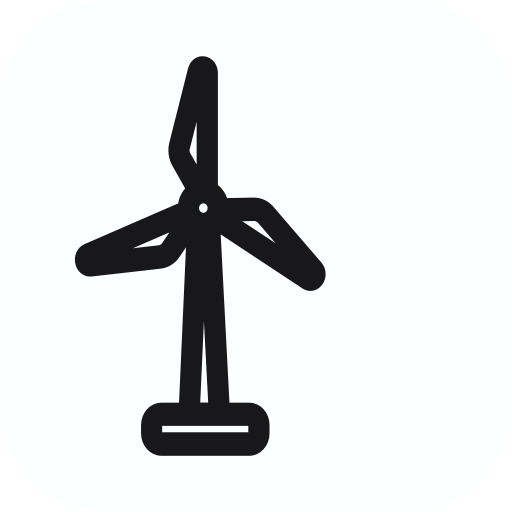
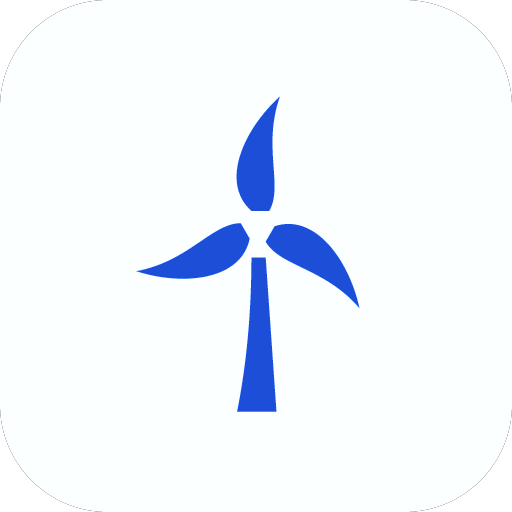
feat(marca): atualizar ícone para turbina Brisa

Changed region(s): [[0.125, 0.0938, 0.7188, 0.9062]]

diff --git a/apps/web/src/components/brand/tower-mark.tsx b/apps/web/src/components/brand/tower-mark.tsx
@@ -1,28 +1,18 @@
 import type { SVGProps } from 'react';
 
-const towerPath =
-  'M7255.1577 5227.8145c-147.9101-155.2002-350.7109-241.17-570.2109-238.7901l-1250.1494 21.4902c-26.2203-260.27-188.4707-477.56-417.5205-580.25l0-4111.99016c0-162.38-112.1299-291.32995-274.3399-315.20995-162.23-21.49-305.3691 71.64022-348.3193 229.24023l-725.2705 2607.59958c-57.26 207.75-26.2503 429.8403 88.2597 611.3203l625.0801 1005.3096c-221.8799 121.79-374.5693 355.8008-374.5693 625.6308 0 9.5498 2.3799 19.0996 2.3799 28.6495l-3807.71038 1502.0097c-152.69001 59.69-231.41975 212.521-193.23975 370.1309 35.78 148.0298 157.4599 243.5498 305.3799 243.5498 11.92001 0 23.84979 0 35.77978 0l2691.18005-276.9903c214.71-21.4902 410.3401-133.7202 536.79-305.6503l727.6504-979.0401c19.1099 14.3198 38.1792 26.25 57.2793 38.21-107.3901 2174.5898-215.1396 4349.1608-322.0996 6523.7808l-949.54 0c-283.8902 0-515.3203 231.639-515.3203 515.799l0 293.721c0 284.16 231.4301 515.769 515.3203 515.769l3421.2197 0c283.8901 0 515.3203-231.609 515.3203-515.769l0-293.721c0-284.16-231.4302-515.799-515.3203-515.799l-1030.6601 0c-124.6001-2177.03-248.4595-4354.0108-374.5694-6530.9507 45.3198-28.6602 90.6392-62.0997 128.8194-100.3096l3492.7905 2091.8301c52.5 31.0298 109.75 47.75 164.6299 47.75 93.0498 0 181.3203-40.5801 245.7402-121.7803 102.5801-126.5498 95.4102-298.4795-19.0996-417.8897l-1863.3003-1962.8603-2.3799-4.79z m-3318.6103-2313.8799l725.2695-2607.59961c0 0 9.5503-31.04004 35.7705-31.04004 2.4102 0 4.79 0 7.1699 0 35.7998 4.76999 35.7998 31.03986 35.7998 40.58985l0 4033.2099-95.4297 7.1397-656.0898-1055.4502c-73.97-117-93.0503-257.8894-57.2803-391.6094l4.7901 4.7598z m789.6894 1728.8701c243.3399 0 441.3506 198.1904 441.3506 441.7402 0 243.5698-198.0107 441.7696-441.3506 441.7696-243.3501 0-441.3691-198.1998-441.3691-441.7696 0-243.5498 198.019-441.7402 441.3691-441.7402z m-1371.8291 1833.9004c-81.1201 109.8501-207.5605 181.4697-343.5605 195.8095l-2691.14981 277c0 0-35.79007 2.3799-45.33008-31.04-9.54999-35.8198 16.69986-45.3696 23.85986-47.7598l3762.37973-1480.5 45.3301 71.6202-756.29 1014.8701 4.7607 0z m3397.3496 6261.1199l0 293.719c0 131.34-107.3701 241.191-240.9599 241.191l-3421.21 0c-131.1999 0-240.9502-107.471-240.9502-241.191l0-293.719c0-131.34 107.3401-241.16 240.9502-241.16l3421.21 0c131.2099 0 240.9599 107.44 240.9599 241.16z m-2113.7998-6936.9002l202.7901 0-4.7803 0c123.9502 2140.3398 246.0898 4280.7592 369.7998 6421.1192l-889.8897 0c106.1299-2140.46 215.48-4280.6793 322.0801-6421.1192z m4284.8706 1633.3301c-21.4902 28.6499-45.3301 14.3398-52.5 9.5498l-3471.3012-2077.4805 28.6201-78.79 1264.4707-21.5098c136-4.77 269.5893 52.5405 365.0195 152.8506l1863.3003 1962.8594c0 0 23.8711 26.2705 2.3906 54.9306l0-2.4101z';
+const brisaPath =
+  'M48 36 C39 28 46 13 56 4 C51 18 57 29 53 36 Z M54.464 40.268 C65.892 36.474 75.383 50.036 78.177 63.196 C68.553 51.866 56.026 51.562 51.964 44.598 Z M47.536 43.732 C45.108 55.526 28.617 56.964 15.823 52.804 C30.447 50.134 36.974 39.438 45.036 39.402 Z M48 49 L52 49 L55 92 L44 92 C47 77 48 62 48 49 Z';
 
 export function TowerMark({ className, ...props }: SVGProps<SVGSVGElement>) {
   return (
     <svg
       aria-hidden="true"
-      className={`text-foreground ${className ?? ''}`}
-      fill="none"
+      className={`text-brand ${className ?? ''}`}
       focusable="false"
-      viewBox="0 0 13552.104 13552.104"
+      viewBox="0 0 100 100"
       {...props}
     >
-      <g transform="translate(1016.3295 0) scale(0.85 1)">
-        <path
-          d={towerPath}
-          fill="currentColor"
-          stroke="currentColor"
-          strokeLinecap="round"
-          strokeLinejoin="round"
-          strokeWidth="550"
-        />
-      </g>
+      <path d={brisaPath} fill="currentColor" transform="translate(15.5 16) scale(0.7)" />
     </svg>
   );
 }

diff --git a/.agent/tasks/README.md b/.agent/tasks/README.md
@@ -8,7 +8,7 @@ Cada nova slice fica em uma pasta `NN-nome/`, com um `README.md` que define resu
 
 ## Próxima slice preparada
 
-Nenhuma slice nova foi detalhada.
+- [x] [15 — Identidade visual](15-identidade-visual/README.md): BR01 concluída em 08/11/2026; novo símbolo Brisa aplicado ao site, favicon e PWA.
 
 - [x] [14 — Domínio principal e redirecionamento](14-dominio-principal/README.md): DOM01–DOM05 concluídas em 08/11/2026. Deploy do SHA `94780287bde78c87bc83845a66feaf751e0df0a7` saudável; domínio canônico e redirects validados; proprietário confirmou os fluxos autenticados, OAuth/email, convites, sync e PWA nos dispositivos disponíveis. Email permanece inalterado.
 - [x] [11 — Preparação e entrada em produção](11-producao/README.md): D01–D10 concluídas. Piloto aberto em 04/11/2026; um cliente usa Android, sem incidentes reportados desde a abertura; suporte via WhatsApp com o proprietário. Quota/evicção e medição p95 <2s foram retiradas do escopo D09 por decisão do proprietário.
@@ -16,8 +16,11 @@ Nenhuma slice nova foi detalhada.
 ## Slice preparada
 
 - Slice 14 planejada em 05/11/2026: domínio principal e redirecionamento do domínio antigo, com DNS, TLS, Caddy, origem/auth/OAuth, deploy e validação ponta a ponta. Troca de remetente/provedor de email excluída e reservada para slice futura.
+- Slice 15 concluída em 08/11/2026: substituir a turbina outlined pela Brisa filled em todos os pontos da marca; ver [BR01](15-identidade-visual/01-icone-brisa.md).
 
 ## Slices concluídas mais recentes
+
+- [x] [15 — Identidade visual](15-identidade-visual/README.md): símbolo Brisa filled adaptado às cores do sistema e aplicado aos usos do site, favicon, PWA e Apple touch icon; `pnpm check` passou em 08/11/2026.
 
 - [x] [14 — Domínio principal e redirecionamento](14-dominio-principal/README.md): DOM01–DOM05 concluídas em 08/11/2026; domínio canônico, redirect legado e fluxos confirmados pelo proprietário. Email permaneceu inalterado.
 
@@ -31,7 +34,7 @@ Nenhuma slice nova foi detalhada.
 
 - [x] [08 — Filtros e histórico de consulta](08-consultas-historico/README.md): filtros P/T nas três listas, paginação por demanda, projeção e retenção segura de histórico.
 
-Última slice concluída: [10 — Cadastro e identidade](10-cadastro-identidade/README.md). A revisão técnica anterior entregou: R01A removeu query e fragmento dos logs automáticos; R02 atualizou documentação e tornou explícita a composição de auditoria/notificações; R03 centralizou transações em issues/parks e classificou erros por constraint; R04 segregou interfaces de workspaces e fortaleceu as fronteiras de módulos; R05 extraiu policies de Issues e preservou receipts; R06 separou módulos e rotas por feature com aceite manual confirmado; R07 separou a persistência, reconciliação e fila offline mantendo a transação; R08 revalidou os fluxos e fechou a matriz A01–A13. Limites de produção continuam explícitos.
+Última slice concluída: [15 — Identidade visual](15-identidade-visual/README.md). A revisão técnica anterior entregou: R01A removeu query e fragmento dos logs automáticos; R02 atualizou documentação e tornou explícita a composição de auditoria/notificações; R03 centralizou transações em issues/parks e classificou erros por constraint; R04 segregou interfaces de workspaces e fortaleceu as fronteiras de módulos; R05 extraiu policies de Issues e preservou receipts; R06 separou módulos e rotas por feature com aceite manual confirmado; R07 separou a persistência, reconciliação e fila offline mantendo a transação; R08 revalidou os fluxos e fechou a matriz A01–A13. Limites de produção continuam explícitos.
 
 - [x] [07 — Campainha e Web Push](07-notificacoes/README.md): N01–N06 concluídas em 28/10/2026; outbox, campainha, worker, interface/PWA, push real confirmado pelo proprietário e validação integrada. Android/iPhone instalados e produção permanecem no roadmap 11.
 

diff --git a/.agent/tasks/15-identidade-visual/01-icone-brisa.md b/.agent/tasks/15-identidade-visual/01-icone-brisa.md
@@ -1,0 +1,35 @@
+# BR01 — Ícone Brisa
+
+**Status:** Concluída em 08/11/2026.  
+**Task concluída:** [x]
+
+## Objetivo
+
+Substituir a turbina outlined pelo ícone Brisa filled enviado em `/mnt/c/Users/leo-a/Downloads/brisa.svg`, adaptando cores e posicionamento para as superfícies do Wind Ops.
+
+## Escopo e exclusões
+
+- Atualizar o componente `TowerMark` usado na landing, acesso, home e navegação do workspace.
+- Atualizar favicons claro/escuro, SVG PWA, PNGs 192/512 e Apple touch icon.
+- Preservar o fundo claro/escuro do ícone instalável e usar azul primário no símbolo claro, com símbolo claro no tema escuro.
+- Não alterar o documento de design Pencil, o nome do produto, tipografia ou layouts.
+
+## Dependências
+
+- SVG Brisa fornecido pelo proprietário; nenhuma dependência de runtime adicionada.
+
+## Implementação
+
+- [x] Trocar o caminho da turbina no componente de marca e centralizar a forma no viewBox quadrado.
+- [x] Atualizar os SVGs de favicon e PWA para usar o símbolo filled e paleta do sistema.
+- [x] Regenerar os PNGs Apple/PWA em seus tamanhos existentes.
+- [x] Conferir visualmente o PNG PWA de 512 px e revisar todos os pontos de uso.
+- [x] Executar `pnpm check` e registrar evidências.
+
+## Contratos e dados
+
+Sem alteração de API, schema, dados ou contratos. Os nomes dos arquivos públicos referenciados pelo HTML e manifesto foram preservados.
+
+## Aceite e evidências
+
+Em 08/11/2026, o componente `TowerMark` e todos os assets públicos existentes passaram a exibir a turbina Brisa filled. O símbolo usa `text-brand` dentro do site; o favicon usa `#1d4ed8` no tema claro e `#93c5fd` no escuro; os SVGs/PNGs de PWA usam a mesma paleta nos respectivos temas. A composição fica centralizada com margem de segurança no quadrado instalável. `pnpm check` passou: lint e boundaries, typechecks, 86 testes em 17 arquivos e build de produção. O PNG de 512 px foi inspecionado visualmente. Sem validação manual em aparelho nesta task.

diff --git a/.agent/memory.md b/.agent/memory.md
@@ -576,3 +576,7 @@ Atualização D10 — 08/11/2026: proprietário especificou que um cliente usa A
 Conclusão D10/slice 11 — 08/11/2026: proprietário definiu suporte por WhatsApp diretamente com ele, como responsável pela continuidade. Com o piloto aberto em 04/11/2026, cliente em Android, nenhum incidente relatado e deploy condicionado a CI aprovado, D10 e a slice 11 foram concluídas. Nenhum nome/telefone do cliente foi registrado. Limitações retiradas do escopo (restore Hostinger/Neon, rollback compatível com schema, simulação de quota/evicção e p95 numérico) permanecem explicitadas e não foram tratadas como testes aprovados.
 
 DOM05 e slice 14 concluídas — 08/11/2026: proprietário confirmou “tudo validado” após o cutover de `windreport.com.br`: fluxos autenticados, email/OTP, Google OAuth/linking, convites, recuperação, sync, PWA e aparelhos disponíveis. Versões de SO/browser não fornecidas; nenhum detalhe sensível, payload ou dado local registrado. Smoke público documentado na task; legado continua redirecionando e email/remetente permanecem inalterados. Nenhuma mensagem externa foi enviada; orientação operacional foi preparada.
+
+## Identidade visual — 08/11/2026
+
+- BR01 concluída: proprietário forneceu `/mnt/c/Users/leo-a/Downloads/brisa.svg`, ícone Brisa filled. Aplicado ao `TowerMark` em landing/acesso/home/workspace; SVGs de favicon claro/escuro e PWA, PNGs 192/512 e Apple touch icon regenerados. O símbolo inline herda `text-brand`; favicon usa os tokens visuais `#1d4ed8` claro e `#93c5fd` escuro; PWA usa a mesma paleta nos respectivos temas. Composição quadrada centralizada com margem segura para máscara. `pnpm check` passou (86 testes, 17 arquivos, build); PNG de 512 px inspecionado. Sem ensaio manual em aparelho.

diff --git a/.agent/tasks/15-identidade-visual/README.md b/.agent/tasks/15-identidade-visual/README.md
@@ -1,0 +1,25 @@
+# Slice 15 — Identidade visual
+
+**Status:** Concluída em 08/11/2026.
+
+## Resultado
+
+Atualizar a marca Wind Ops para usar o ícone Brisa filled enviado pelo proprietário, mantendo alinhamento, escala e cores consistentes entre a interface e os ícones instaláveis.
+
+## Limites
+
+- Inclui símbolo inline do site, favicon claro/escuro, SVG de PWA, PNGs do manifesto e Apple touch icon.
+- Não altera nome, tipografia, telas ou regras do produto.
+- O SVG de origem permanece fora do repositório; os caminhos necessários foram incorporados aos assets versionados.
+
+## Dependências e ordem
+
+| Task                          | Entrega                                                                           | Dependências                    |
+| ----------------------------- | --------------------------------------------------------------------------------- | ------------------------------- |
+| [x] [BR01](01-icone-brisa.md) | Ícone Brisa centralizado e adaptado à paleta Wind Ops em todos os pontos da marca | SVG fornecido pelo proprietário |
+
+## Critério de encerramento
+
+- [x] Interface, favicon por tema, ícones PWA e Apple touch icon usam a nova marca.
+- [x] O ícone aparece centralizado com área segura para máscara do PWA.
+- [x] `pnpm check` passa.
